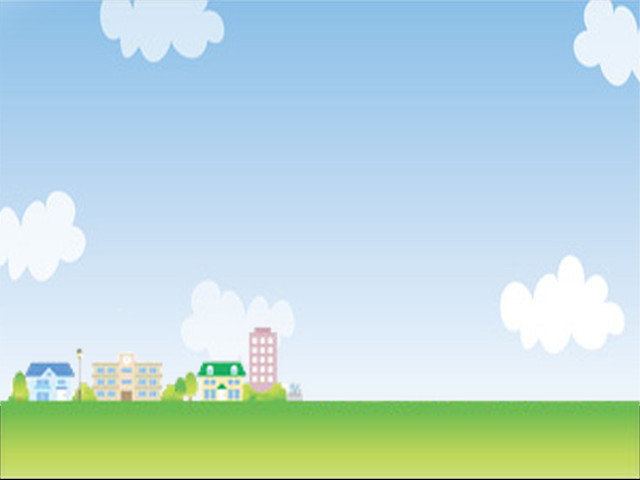
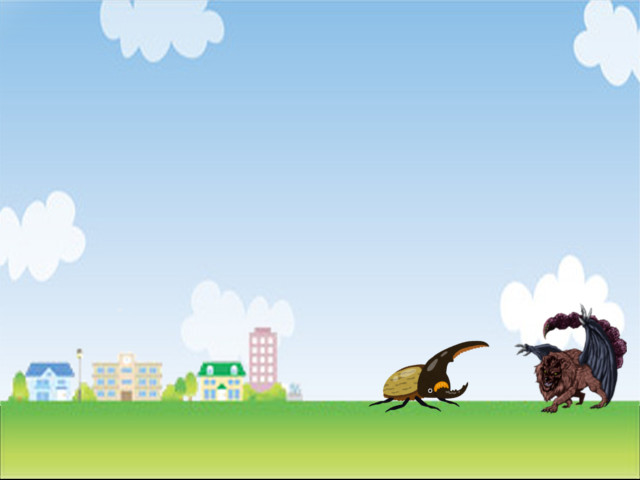
画像追加

Changed region(s): [[0.8125, 0.625, 1.0, 0.875], [0.5938, 0.6875, 0.75, 0.875]]

diff --git a/Throw/Throw/GV.h b/Throw/Throw/GV.h
@@ -22,6 +22,9 @@ extern int power;
 extern int condition;
 extern int timing;
 
+extern int enemy_img;
+extern int hera_img;
+
 /*mouse.cpp*/
 extern int mouse_x, mouse_y;
 extern int Mouse[8];
